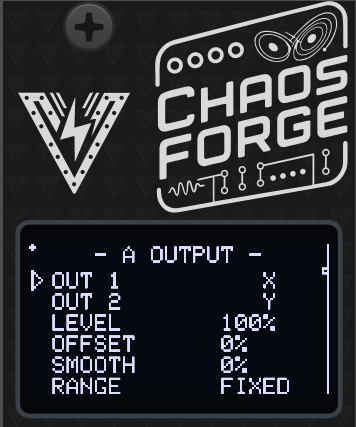
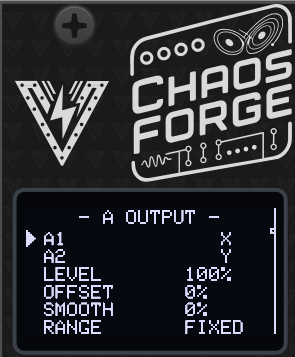
Renamed ChaosForge output names to match the panel and logic of the generators.

Changed region(s): [[0.0, 0.0, 1.0, 1.0], [0.0305, 0.2157, 0.3661, 0.4622], [0.7017, 0.5854, 0.7322, 0.6162]]

diff --git a/apps/att/vcv-plugin/src/ChaosForge.cpp b/apps/att/vcv-plugin/src/ChaosForge.cpp
@@ -54,8 +54,21 @@ struct ChaosForge : forgevcv::ForgeModule {
         bool trig = inputs[TRIG_INPUT].getVoltage() > 1.f;
         stepEngine(args.sampleTime, cv, 2, trig, 4);
 
-        for (int i = 0; i < 4; i++)
-            outputs[A1_OUTPUT + i].setVoltage(outHold[i]);
+        // outHold is in DAC/jack order — top-left, top-right, bottom-left,
+        // bottom-right — and the generators are columns, so it is not the enum's
+        // order. Mapped by name rather than by `A1_OUTPUT + i`, because the two
+        // orders genuinely differ and a loop would silently cross the pairs.
+        //
+        // The PORT IDS are deliberately left alone. A Rack patch stores cables by
+        // port id, so keeping A2 as id 1 means a patch made before the columns
+        // change still has its cable on generator A's second axis — it is drawn
+        // in a different place on the panel, but it is carrying the same signal.
+        // Renumbering instead would have preserved the position and swapped the
+        // signal, which is the worse half to keep.
+        outputs[A1_OUTPUT].setVoltage(outHold[0]); // top-left
+        outputs[B1_OUTPUT].setVoltage(outHold[1]); // top-right
+        outputs[A2_OUTPUT].setVoltage(outHold[2]); // bottom-left
+        outputs[B2_OUTPUT].setVoltage(outHold[3]); // bottom-right
     }
 
     json_t *dataToJson() override {
@@ -138,9 +151,12 @@ struct ChaosForgeWidget : ModuleWidget {
         addInput(createInputCentered<PJ301MPort>(mm2px(Vec(7.153, 80.797)), module, ChaosForge::CV1_INPUT));
         addInput(createInputCentered<PJ301MPort>(mm2px(Vec(22.647, 80.797)), module, ChaosForge::CV2_INPUT));
 
+        // Generator A down the left column, B down the right — see the jack map
+        // in lib/engine.hpp. The panel silkscreen reads A1/A2 on the left and
+        // B1/B2 on the right to match.
         addOutput(createOutputCentered<PJ301MPort>(mm2px(Vec(7.412, 95.068)), module, ChaosForge::A1_OUTPUT));
-        addOutput(createOutputCentered<PJ301MPort>(mm2px(Vec(22.652, 95.068)), module, ChaosForge::A2_OUTPUT));
-        addOutput(createOutputCentered<PJ301MPort>(mm2px(Vec(7.407, 109.34)), module, ChaosForge::B1_OUTPUT));
+        addOutput(createOutputCentered<PJ301MPort>(mm2px(Vec(22.652, 95.068)), module, ChaosForge::B1_OUTPUT));
+        addOutput(createOutputCentered<PJ301MPort>(mm2px(Vec(7.407, 109.34)), module, ChaosForge::A2_OUTPUT));
         addOutput(createOutputCentered<PJ301MPort>(mm2px(Vec(22.647, 109.34)), module, ChaosForge::B2_OUTPUT));
 
         // Emulated OLED over the display cutout.
@@ -190,7 +206,7 @@ struct ChaosForgeWidget : ModuleWidget {
     // Per-generator submenu, mirroring the firmware's own two pages.
     void appendGeneratorMenu(Menu *menu, ChaosForge *m, int g) {
         chengine::Engine *e = m->cf->raw();
-        const char *name = (g == 0) ? "Generator A (out 1+2)" : "Generator B (out 3+4)";
+        const char *name = (g == 0) ? "Generator A (A1 + A2)" : "Generator B (B1 + B2)";
 
         menu->addChild(createSubmenuItem(
             name, chengine::systemName(chengine::systemGet(e, g)), [=](Menu *menu) {

diff --git a/apps/att/lib/menuHandlers.hpp b/apps/att/lib/menuHandlers.hpp
@@ -31,6 +31,8 @@
 //   0  HOME       — the Lissajous plot (custom renderer in menuRender.hpp)
 //   1  A SYSTEM   — attractor, speed, its four parameters
 //   2  A OUTPUT   — which axis each jack follows, level, offset, smooth, range
+//                   Rows are named for the panel: A1/A2 are generator A's two
+//                   jacks, down the LEFT column. B1/B2 are B's, down the right.
 //   3  B SYSTEM
 //   4  B OUTPUT
 //   5  LINK       — couple, IN 1 role, the re-seed gestures
@@ -391,8 +393,8 @@ const MenuItem MENU_ITEMS[] = {
     {"P4", getParamName<0, 3>, getParamValue<0, 3>, 34, 70, 1, ROW_TWOCOL, MENU_EDIT, setParam<0, 3>, nullptr, true},
 
     // ── 2 A OUTPUT ──
-    {"OUT 1", getSrc<0, 0>, nullptr, 100, 0, 2, ROW_SINGLE, MENU_EDIT, setSrc<0, 0>, nullptr, true},
-    {"OUT 2", getSrc<0, 1>, nullptr, 100, 0, 2, ROW_SINGLE, MENU_EDIT, setSrc<0, 1>, nullptr, true},
+    {"A1", getSrc<0, 0>, nullptr, 100, 0, 2, ROW_SINGLE, MENU_EDIT, setSrc<0, 0>, nullptr, true},
+    {"A2", getSrc<0, 1>, nullptr, 100, 0, 2, ROW_SINGLE, MENU_EDIT, setSrc<0, 1>, nullptr, true},
     {"LEVEL", getLevel<0>, nullptr, 82, 0, 2, ROW_SINGLE, MENU_EDIT, setLevel<0>, nullptr, true},
     {"OFFSET", getOffset<0>, nullptr, 82, 0, 2, ROW_SINGLE, MENU_EDIT, setOffset<0>, nullptr, true},
     {"SMOOTH", getSmooth<0>, nullptr, 82, 0, 2, ROW_SINGLE, MENU_EDIT, setSmooth<0>, nullptr, true},
@@ -407,8 +409,8 @@ const MenuItem MENU_ITEMS[] = {
     {"P4", getParamName<1, 3>, getParamValue<1, 3>, 34, 70, 3, ROW_TWOCOL, MENU_EDIT, setParam<1, 3>, nullptr, true},
 
     // ── 4 B OUTPUT ──
-    {"OUT 3", getSrc<1, 0>, nullptr, 100, 0, 4, ROW_SINGLE, MENU_EDIT, setSrc<1, 0>, nullptr, true},
-    {"OUT 4", getSrc<1, 1>, nullptr, 100, 0, 4, ROW_SINGLE, MENU_EDIT, setSrc<1, 1>, nullptr, true},
+    {"B1", getSrc<1, 0>, nullptr, 100, 0, 4, ROW_SINGLE, MENU_EDIT, setSrc<1, 0>, nullptr, true},
+    {"B2", getSrc<1, 1>, nullptr, 100, 0, 4, ROW_SINGLE, MENU_EDIT, setSrc<1, 1>, nullptr, true},
     {"LEVEL", getLevel<1>, nullptr, 82, 0, 4, ROW_SINGLE, MENU_EDIT, setLevel<1>, nullptr, true},
     {"OFFSET", getOffset<1>, nullptr, 82, 0, 4, ROW_SINGLE, MENU_EDIT, setOffset<1>, nullptr, true},
     {"SMOOTH", getSmooth<1>, nullptr, 82, 0, 4, ROW_SINGLE, MENU_EDIT, setSmooth<1>, nullptr, true},

diff --git a/apps/att/lib/engine.hpp b/apps/att/lib/engine.hpp
@@ -64,8 +64,16 @@ inline void HandleOutputs() {
     world.SetFrozen(in1Role == In1Freeze && trigLevel);
     world.Advance(now);
 
-    DACWriteAll((uint16_t)lroundf(world.Get(0).Out01(0) * (float)MAXDAC),
-                (uint16_t)lroundf(world.Get(0).Out01(1) * (float)MAXDAC),
-                (uint16_t)lroundf(world.Get(1).Out01(0) * (float)MAXDAC),
-                (uint16_t)lroundf(world.Get(1).Out01(1) * (float)MAXDAC));
+    // ── Generators are COLUMNS, not rows ─────────────────────────────────────
+    // The four jacks sit in two rows of two: DAC 0 is top-left, 1 top-right,
+    // 2 bottom-left, 3 bottom-right. Generator A takes the left column and B the
+    // right, so which pair belongs to which generator is readable at a glance
+    // from across a room — where a top-row/bottom-row split is not, because the
+    // two rows look alike and nothing about the layout says which is which.
+    //
+    // The panel labels follow: A1 / A2 down the left, B1 / B2 down the right.
+    DACWriteAll((uint16_t)lroundf(world.Get(0).Out01(0) * (float)MAXDAC),  // A1
+                (uint16_t)lroundf(world.Get(1).Out01(0) * (float)MAXDAC),  // B1
+                (uint16_t)lroundf(world.Get(0).Out01(1) * (float)MAXDAC),  // A2
+                (uint16_t)lroundf(world.Get(1).Out01(1) * (float)MAXDAC)); // B2
 }

diff --git a/apps/att/Manual.md b/apps/att/Manual.md
@@ -96,9 +96,9 @@ the next group.
 | ------------ | ------------------------------------------------ |
 | **plot**     | the home screen                                  |
 | **A SYSTEM** | SYSTEM · SPEED · P1 · P2 · P3 · P4               |
-| **A OUTPUT** | OUT 1 · OUT 2 · LEVEL · OFFSET · SMOOTH · RANGE  |
+| **A OUTPUT** | A1 · A2 · LEVEL · OFFSET · SMOOTH · RANGE        |
 | **B SYSTEM** | as A                                             |
-| **B OUTPUT** | OUT 3 · OUT 4 · LEVEL · OFFSET · SMOOTH · RANGE  |
+| **B OUTPUT** | B1 · B2 · LEVEL · OFFSET · SMOOTH · RANGE        |
 | **LINK**     | COUPLE · IN 1 · RESEED A · RESEED B · RESEED ALL |
 | **CV IN**    | IN2 DEST · IN2 DEPTH · IN3 DEST · IN3 DEPTH      |
 | **SETTINGS** | VIEW · TIMEOUT · BOOT MENU                       |
@@ -136,8 +136,12 @@ restart; back the constant off.
 
 ![Output](./images/Panel/Output.png)
 
-**OUT 1 / OUT 2** (and OUT 3 / OUT 4 for generator B) — which state variable each
-jack follows: X, Y or Z. Every system's three axes have different characters;
+**A1 / A2** (and B1 / B2 for generator B) — which state variable each
+jack follows: X, Y or Z.
+
+The four jacks are two rows of two, and **each generator owns a column**:
+A1 above A2 down the left, B1 above B2 down the right. Which pair is which is
+therefore readable at a glance, which two identical-looking rows would not be. Every system's three axes have different characters;
 Rössler's Z, for example, is flat with occasional sharp folds while its X and Y
 drift smoothly.
 

diff --git a/apps/att/AGENTS.md b/apps/att/AGENTS.md
@@ -60,12 +60,22 @@ All four outputs go through the MCP4728, written positionally in
 [lib/engine.hpp](lib/engine.hpp). The pairing is the module's proposition, so it
 is fixed:
 
-| DAC index | Jack | Signal |
-| --------- | ---- | ------ |
-| 0 | 1 | generator A, the axis chosen for its first jack |
-| 1 | 2 | generator A, the axis chosen for its second jack |
-| 2 | 3 | generator B, first jack |
-| 3 | 4 | generator B, second jack |
+**Generators are columns, not rows.** The four jacks sit in two rows of two, and
+generator A takes the left column with B on the right — so which pair belongs to
+which generator is readable from across a room. A top-row/bottom-row split is
+not: the two rows look alike and nothing in the layout says which is which.
+
+| DAC index | Position | Panel | Signal |
+| --------- | -------- | ----- | ------ |
+| 0 | top-left | A1 | generator A, the axis chosen for its first jack |
+| 1 | top-right | B1 | generator B, first jack |
+| 2 | bottom-left | A2 | generator A, second jack |
+| 3 | bottom-right | B2 | generator B, second jack |
+
+The Rack port keeps its **port ids** in the old order (A1=0, A2=1, B1=2, B2=3)
+and maps `outHold` by name instead. Rack stores cables by port id, so a patch
+made before this change keeps its cable on the same *signal* — drawn somewhere
+else on the panel, but still generator A's second axis.
 
 ## Key subsystems
 

diff --git a/apps/att/Readme.md b/apps/att/Readme.md
@@ -71,9 +71,10 @@ you have moved the constants far enough that the figure no longer fills the jack
 
 ## Patch ideas
 
-- **The default patch.** OUT 1 and OUT 2 (Lorenz X and Y) to filter cutoff and a
-  wavefolder; OUT 3 and OUT 4 (a slow Rössler) to a reverb size and a pan. One
-  fast pair, one slow pair, nothing repeating.
+- **The default patch.** A1 and A2 (Lorenz X and Y) to filter cutoff and a
+  wavefolder; B1 and B2 (a slow Rössler) to a reverb size and a pan. One
+  fast pair, one slow pair, nothing repeating. Each generator owns a column of
+  the panel — A down the left, B down the right.
 - **One voice, two hands.** Both jacks of a generator into two parameters of the
   same voice. They will never agree and never fight.
 - **Entrained pair.** Two generators on the same system, COUPLE around 30–50 %.
